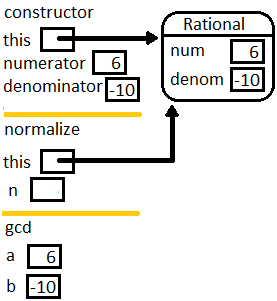
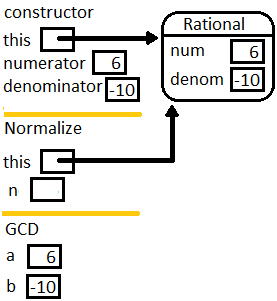
moved cs_project1 planning back to after Rational - new section heading, fixed pics with Normaalize and GCD, more cross references

Changed region(s): [[0.0, 0.3887, 0.3177, 0.4485], [0.0, 0.7176, 0.1444, 0.8073]]

diff --git a/rst/classexamples.rst b/rst/classexamples.rst
@@ -47,7 +47,8 @@ We create it hoping that highlighting the differences between procedural
 and object-oriented presentation is informative.  Also, we will see 
 with :ref:`interface` that
 there are C# language features that require an
-object rather than just a function and data.
+object rather than just a function and data.  
+In :ref:`igame-interface-exercise` you can use a Game object.
 
 Here is a procedural game version, example file 
 :repsrc:`static_version/static_version.cs`
@@ -56,14 +57,18 @@ Here is a procedural game version, example file
    :start-after:  chunk
    :end-before: chunk
 
-The project also refers to the library class UI, with the functions we use for safe
+The project also refers to the library class UI, 
+with the functions we use for safe
 keyboard input.  It is all static methods.  
 
 Is there any reason to make this UI class have its own own instances?
 
-**No**.  There is no state to remember between UI method calls.  What comes in through
-the keyboard goes out through a return value, and then you are completely done with it.  
-A simple static function works fine each time.  *Do not get fancy for nothing*.
+**No**.  There is no state to remember between UI method calls.  
+What comes in through
+the keyboard goes out through a return value, 
+and then you are completely done with it.  
+A simple static function works fine each time.  
+*Do not get fancy for nothing*.
 
 What state would a game hold?  We might set it up so the user
 chooses the size of the range of choices just once, and remember it 
@@ -83,17 +88,20 @@ In the procedural version there are several other important variables:
 - Random rand:  That was static before, for good reason: 
   We only need one Random number generator for the whole
   time the program is running, so one static variable makes sense.
-- The central number in the procedural Game and our future Play method is ``secret``.
+- The central number in the procedural Game 
+  and our future Play method is ``secret``.
   Should that be an instance variable?  It would work, but it would
   be unhelpful and misleading:  Secret is reset every time the game is played,
-  and it has no meaning after a Play function would be finished.  There is nothing to
+  and it has no meaning after a Play function would be finished.  
+  There is nothing to
   remember *between* time you Play.  This is the
   perfect place for a local variable *as we have now*.  
   
 A common newbie error is to make things
 into instance variables, just because you can, when an old-fashioned
 local variable is all that you need.  It is good to have variables leave the
-programmer's consciousness when they are no longer needed, as a local variable does.  
+programmer's consciousness when they are no longer needed, 
+as a local variable does.  
 An instance variable lingers on, leaving extra places to make errors.
 
 This introductory discussion could get you going, making a transformation.  
@@ -107,7 +115,8 @@ You could prompt the user for the value for ``big`` to send to the constructor.
 Once you have an object, you can call *instance method* ``Play``.  
 What about parameters? What needs to change?
 
-There is also a video for this section that follows all the way through the steps.
+There is also a video for this section that 
+follows all the way through the steps.
 A possible final result is in :repsrc:`instance_version/guess_game.cs`.
 
 .. _animal-lab:
@@ -146,11 +155,13 @@ Then modify the two files as discussed below.
      If Froggy eats "worm" and then "fly", its ``gut`` list contains
      "worm" and "fly".
     
-   * An Animal can ``Excrete`` (removing and printing what was *first* in the gut List). 
+   * An Animal can ``Excrete`` 
+     (removing and printing what was *first* in the gut List). 
      Recall the method ``RemoveAt`` in :ref:`listsyntax`.  Print the
      empty string, "", if the ``gut``
      *was already empty*.  Following the
-     Froggy example above, Froggy could ``Excrete``, and "worm" would be printed.
+     Froggy example above, Froggy could ``Excrete``, 
+     and "worm" would be printed.
      Then its ``gut`` would contain only "fly". 
       
    * A ``ToString`` method: 
@@ -161,7 +172,8 @@ Then modify the two files as discussed below.
          
      Try this first, and note the extra credit version below.
          
-   * All the methods that print should be void.  Which need a parameter, of what type?
+   * All the methods that print should be void.  
+     Which need a parameter, of what type?
 
 #. Complete the file :repsrc:`test_animal.cs <animal_lab_stub/test_animal.cs>` 
    with its class ``TestAnimal`` containing the 
@@ -182,84 +194,4 @@ Then modify the two files as discussed below.
     
        "Animal: Froggy ate nothing"  
        
-Planning A Class Structure
--------------------------------
 
-The Console input/output interchange below illustrates 
-an idea for a skeleton of a text (adventure?) game.  
-It could be the basic of a later group project. It does not
-have much in it yet, but it can be planned in terms of classes.
-Classes with instances correspond to nouns you would be using, 
-particularly nouns used in more than one place with different 
-state data being remembered.
-Verbs associated with nouns you use tend to be methods.  
-Think how you might break this down, looking at what is happening
-in the sequence below. 
- 
-The parts appearing after the '>' prompt are entries by the user.
-Other lines are computer responses::
-
-	Welcome to Loyola!
-	This is a pretty boring game, unless you modify it.
-	Type 'help' if you need help.
-	
-	You are outside the main entrance of the university that prepares people for
-	extraordinary lives.  It would help to be prepared now....
-	Exits: east south west 
-	> help
-	You are lost. You are alone.
-	You wander around at the university.
-								 
-	Your command words are:
-	   help go quit 
-	
-	Enter
-		help command
-	for help on the command.
-	> help go
-	Enter
-		go direction
-	to exit the current place in the specified direction.
-	The direction should be in the list of exits for the current place.
-	> go west
-	You are in the campus pub.
-	Exits: east 
-	> go east
-	You are outside the main entrance of the university that prepares people for
-	extraordinary lives.  It would help to be prepared now....
-	Exits: east south west 
-	> go south
-	You are in a computing lab.
-	Exits: north east 
-	> go east
-	You are in the computing admin office.
-	Exits: west 
-	> bye 
-	I don't know what you mean...
-	> quit
-	Do you really want to quit? yes
-	Thank you for playing.  Good bye.
-
-Think and discuss how to organize things first....
-
-The different parts of a multi-class project interact through their public methods.
-Remember the two roles of writer and consumer.  The consumer needs good documentation
-of how to use (not implement) these methods.  These methods that allow the
-interaction between classes provide the *interface* between classes.  Unfortunately 
-"interface" is used in more than one way.  Here it means publicly specified ways
-for different parts to interact.
-
-As you think how to break this game into parts (classes), 
-also think how the parts interact (public methods).
-Maybe discuss ideas in class.
-
-If the plan is to discuss it in class, *wait* before looking at 
-the code that generated the exchange above, in the 
-project folder :repsrc:`csproject1`.
-
-The code uses many of the topics discussed so far in this book.
-
-We will add some features from another meaning of :ref:`Interface`,
-and discuss the revision in project
-:repsrc:`csproject_stub` (no 1).  You *might* use this version 
-as a basis of a project.

diff --git a/rst/planning_classes.rst b/rst/planning_classes.rst
@@ -1,0 +1,88 @@
+.. index::  class; plan classes and methods
+   plan problem split into classes
+   
+.. _plan-classes:
+
+Planning A Class Structure
+==============================
+
+The Console input/output interchange below illustrates 
+an idea for a skeleton of a text (adventure?) game.  
+It could be the basic of a later group project. It does not
+have much in it yet, but it can be planned in terms of classes.
+Classes with instances correspond to nouns you would be using, 
+particularly nouns used in more than one place with different 
+state data being remembered.
+Verbs associated with nouns you use tend to be methods.  
+Think how you might break this down, looking at what is happening
+in the sequence below. 
+ 
+The parts appearing after the '>' prompt are entries by the user.
+Other lines are computer responses:
+
+..  code-block:: none
+
+	Welcome to Loyola!
+	This is a pretty boring game, unless you modify it.
+	Type 'help' if you need help.
+	
+	You are outside the main entrance of the university that prepares people for
+	extraordinary lives.  It would help to be prepared now....
+	Exits: east south west 
+	> help
+	You are lost. You are alone.
+	You wander around at the university.
+								 
+	Your command words are:
+	   help go quit 
+	
+	Enter
+		help command
+	for help on the command.
+	> help go
+	Enter
+		go direction
+	to exit the current place in the specified direction.
+	The direction should be in the list of exits for the current place.
+	> go west
+	You are in the campus pub.
+	Exits: east 
+	> go east
+	You are outside the main entrance of the university that prepares people for
+	extraordinary lives.  It would help to be prepared now....
+	Exits: east south west 
+	> go south
+	You are in a computing lab.
+	Exits: north east 
+	> go east
+	You are in the computing admin office.
+	Exits: west 
+	> bye 
+	I don't know what you mean...
+	> quit
+	Do you really want to quit? yes
+	Thank you for playing.  Good bye.
+
+Think and discuss how to organize things first....
+
+The different parts of a multi-class project interact through their public methods.
+Remember the two roles of writer and consumer.  The consumer needs good documentation
+of how to use (not implement) these methods.  These methods that allow the
+interaction between classes provide the *interface* between classes.  Unfortunately 
+"interface" is used in more than one way.  Here it means publicly specified ways
+for different parts to interact.
+
+As you think how to break this game into parts (classes), 
+also think how the parts interact (public methods).
+Maybe discuss ideas in class.
+
+If the plan is to discuss it in class, *wait* before looking at 
+the code that generated the exchange above, in the 
+project folder :repsrc:`cs_project1`.
+
+The code uses many of the topics discussed so far in this book.
+
+We will add some features from another meaning of :ref:`Interface`,
+and discuss the revision in project
+:repsrc:`csproject_stub` (no 1).  You *might* use this version 
+as a basis of a project.

diff --git a/rst/rational.rst b/rst/rational.rst
@@ -8,19 +8,23 @@ The Rational Class
 
 Like other numbers, we think of a rational number as a unit, 
 but all rational numbers can be most easily represented as a fraction, 
-a ratio of two integers. 
-They also have lots of obvious operations defined on them.  This makes  
-it sound reasonable to create a class ``Rational``.  ::
+a ratio of two integers. We can create a class Rational, so  ::
 
    Rational r = new Rational(2, 3);
 
 would create a new Rational number for the mathematical expression, 2/3.
 
-In this example we will use most of the concepts for object so far, 
-and add a few more. There are lots of operations on rational
-numbers. Thinking ahead to what we would like for our rational numbers, here is
-some testing code.  Hopefully the method names are clear and reasonable. We
-operate on a single rational number, and do calculation with a pair,
+Our previous simple class examples have mostly been ways of 
+collecting related data, with limited methods beyond getters and setters.
+Rational numbers also have lots of obvious operations defined on them.  
+Our Rational example we will use most of the concepts for object so far, 
+and add a few more, to provide a rich practical class 
+with a variety of methods. 
+
+Thinking ahead to what we would like for our rational numbers, here is
+some testing code.  Hopefully the method names are clear and reasonable. 
+in the illustration
+we operate on a single rational number, and do calculation with a pair,
 and parse string literals.  The code is from 
 :repsrc:`test_rational/test_rational.cs`:
 
@@ -41,7 +45,7 @@ The results we would like when running this testing code:
 	-3/5 - 1/2 is -11/10
 	-3/5 * 1/2 is -3/10
 	(-3/5) / (1/2) is -6/5
-	1/2 > -3/5 ? True
+	1/2 > -3/5 ? true
 	-3/5 as a double is -0.6
 	1/2 as a decimal is 0.5
 	Parse "-12/30" to Rational: -2/5
@@ -241,6 +245,9 @@ The testing code we started with, in
 :repsrc:`test_rational/test_rational.cs`
 uses all the methods.  We will see more advance ways to test Rational
 in :ref:`testing`.
+
+There is also a more convenient version of Rational, 
+using advanced concepts, in :ref:`defining_operators`.
 
 Pictorial Playing Computer
 ---------------------------

diff --git a/rst/onedim.rst b/rst/onedim.rst
@@ -454,7 +454,7 @@ it was filled with zeros.  It is a safety feature of C# that the internal fields
 of objects always get a specific value, not random data.  Here are the defaults:
 
    | primitive numeric types: zero
-   | boolean: false
+   | bool: false
    | all object types:  null
 
 .. warning::
@@ -471,7 +471,8 @@ of objects always get a specific value, not random data.  Here are the defaults:
    property.  If, for example, 
    you want an array of empty strings you would need a loop::
     
-       for (int i = 0; i < words.length; i++) {
+       string[] words = new string[10];
+       for (int i = 0; i < words.Length; i++) {
           words[i] = "";
        }
         

diff --git a/rst/csproj-revisited.rst b/rst/csproj-revisited.rst
@@ -182,6 +182,8 @@ they make your code clearer, easier to modify, and easier to debug.
    interface; igame exercise
    igame exercise
 
+.. _igame-interface-exercise:
+
 IGame Interface Exercise
 ~~~~~~~~~~~~~~~~~~~~~~~~~~
 

diff --git a/rst/classes.rst b/rst/classes.rst
@@ -12,6 +12,7 @@ Classes and Object-Oriented Programming
    a-first-class
    classexamples
    rational
+   planning_classes
    classes-and-structs
    overload-op
 
